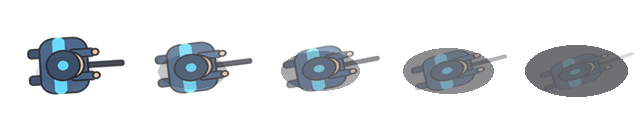
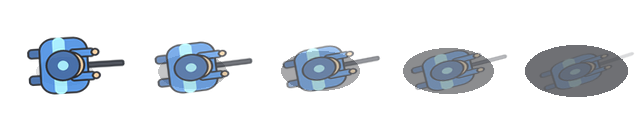
added fixed characters

diff --git a/tools/make_sprites.py b/tools/make_sprites.py
@@ -19,10 +19,11 @@ def hx(c):
     c = c.lstrip("#")
     return tuple(int(c[i:i+2], 16) for i in (0, 2, 4))
 
-SKIN, RIFLE, OUTLINE = hx("e8b58a"), hx("22262f"), hx("0a0c12")
-P_UNI, P_HELM, P_ACC = hx("2a4a74"), hx("1b3352"), hx("4dd2ff")
-A_UNI, A_HELM, A_ACC = hx("2f6b3a"), hx("234f2c"), hx("7CFF6B")
-Z_SKIN, Z_BODY, Z_DARK, Z_BLOOD = hx("8aa85f"), hx("55663c"), hx("39472a"), hx("8a2f2f")
+# Brighter, higher-contrast so characters pop against the dark game background.
+SKIN, RIFLE, OUTLINE = hx("f2c48f"), hx("2c313c"), hx("0c1018")
+P_UNI, P_HELM, P_ACC = hx("3d86e0"), hx("2b5a9e"), hx("9becff")   # player (bright blue)
+A_UNI, A_HELM, A_ACC = hx("4cc85a"), hx("2f8a3c"), hx("caffb0")   # ally (bright green)
+Z_SKIN, Z_BODY, Z_DARK, Z_BLOOD = hx("bfe07a"), hx("9bb85f"), hx("6b8040"), hx("d84540")  # zombie (brighter)
 
 def A(c, a=255):
     return c + (a,)
